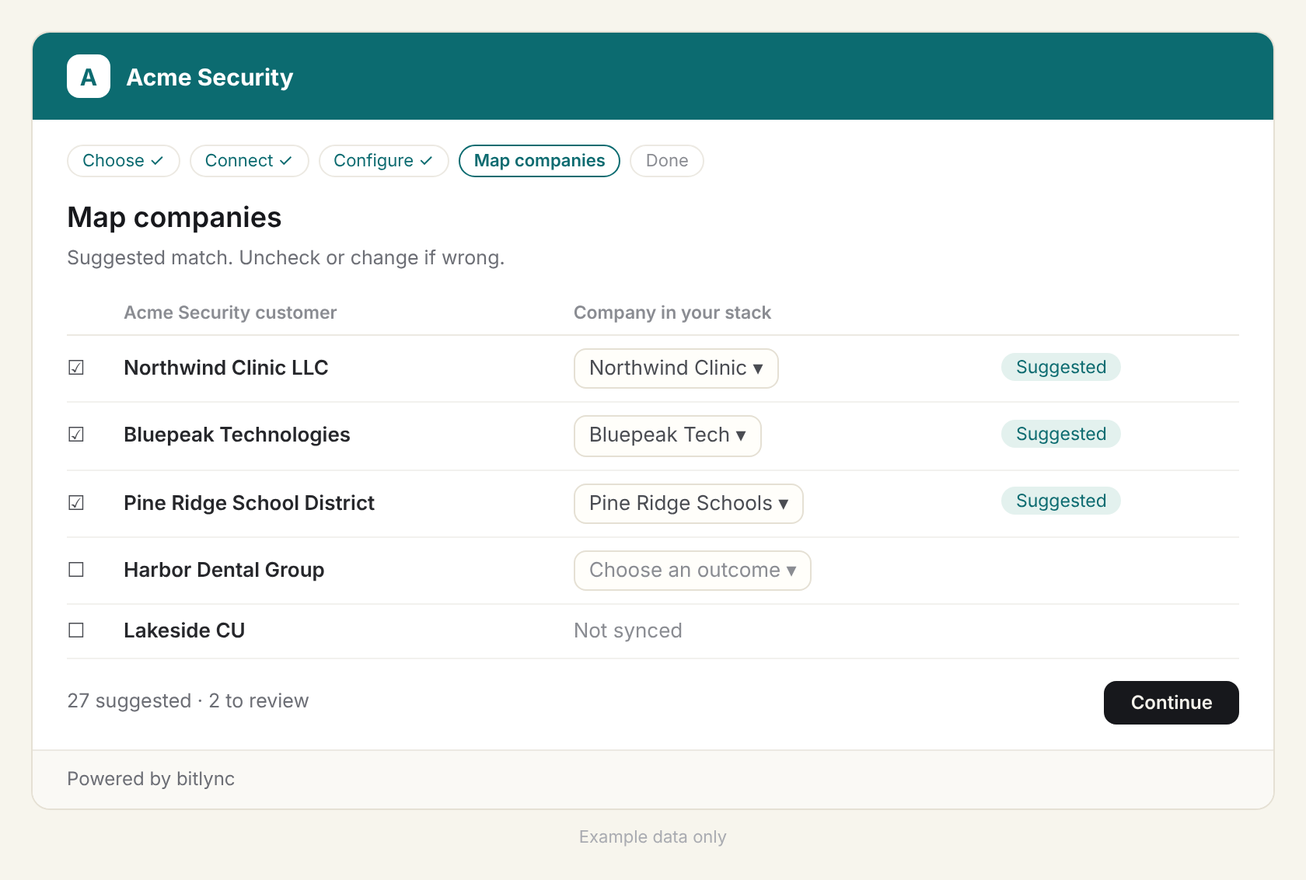
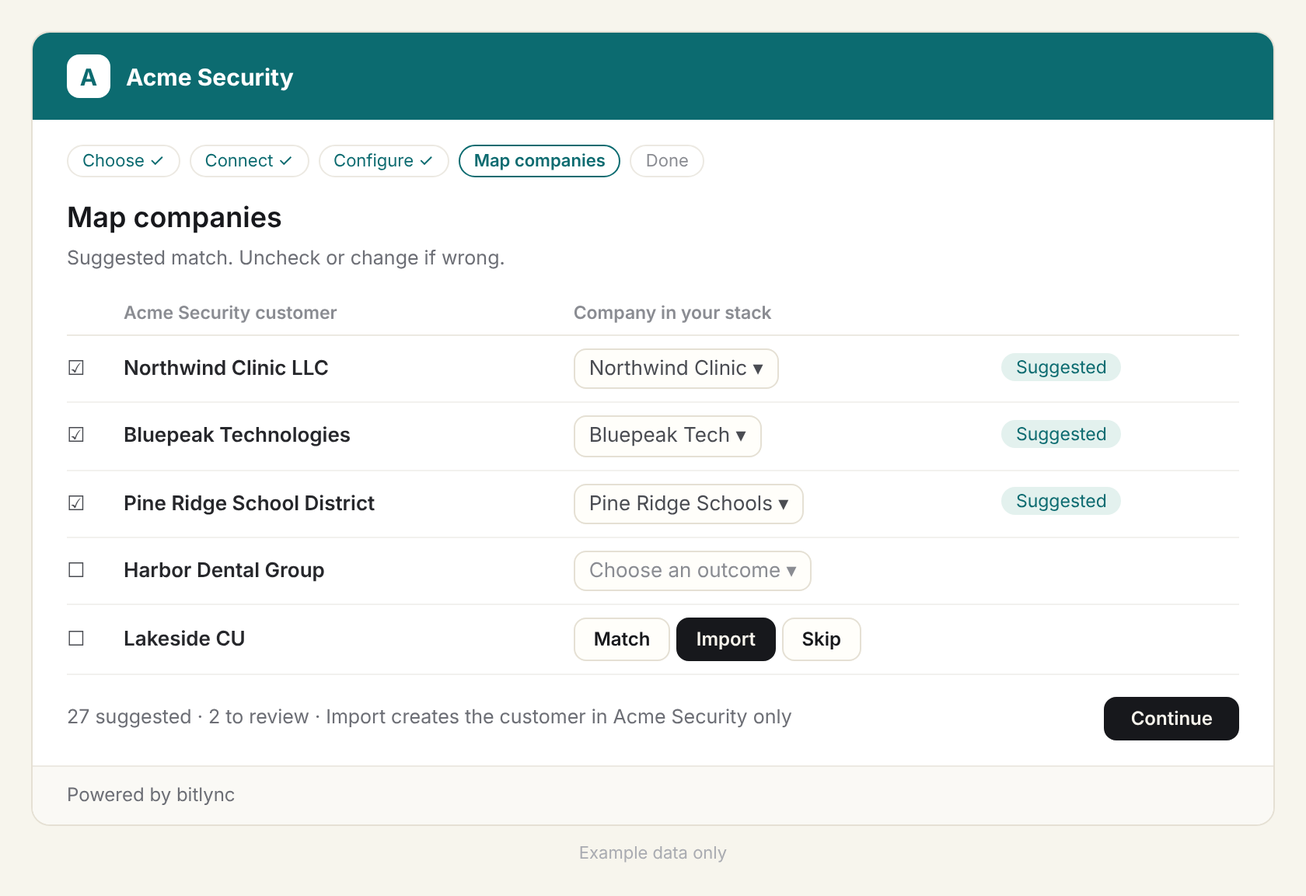
preview: Product as top-level nav tab (#product, #products alias), copy and art feedback (#249)

diff --git a/preview/index.html b/preview/index.html
@@ -824,117 +824,117 @@ body.docs footer{border-top-color:var(--dline);color:var(--dmute)}
 
 /* Products page (ISV audience, preview). Mirrors the MSP page styles. */
 /* MSP value page (preview). Scoped so other routes keep their styles. */
-#page-products .msp-hero{padding-bottom:48px}
-#page-products .msp-hero h1{font-family:var(--serif);font-weight:400;font-size:clamp(34px,5.4vw,60px);line-height:1.02;letter-spacing:-.02em;margin:0 0 14px}
-#page-products .msp-collage{width:min(1520px, calc(100vw - 28px));margin:6px auto 0}
-#page-products .msp-collage .ui{height:100%;display:flex;flex-direction:column;font-size:15px}
-#page-products .msp-collage .ui .uh{font-size:12.5px;padding:13px 18px}
-#page-products .msp-collage .ui .ub{flex:1;padding:16px 18px 18px}
-#page-products .msp-collage .rrow{padding:13px 0;font-size:15px}
-#page-products .msp-collage .chip{font-size:14px;padding:6px 12px}
-#page-products .msp-collage table.bt{font-size:14.5px}
-#page-products .msp-collage table.bt th{padding:8px 8px}
-#page-products .msp-collage table.bt td{padding:11px 8px}
-#page-products .dig-row{display:grid;grid-template-columns:118px 1fr;gap:10px;align-items:baseline;padding:9px 0;border-bottom:1px solid var(--hair);font-size:14.5px;line-height:1.35}
-#page-products .dig-row:last-of-type{border-bottom:none}
-#page-products .dig-k{font-family:var(--mono);font-size:11px;letter-spacing:.04em;text-transform:uppercase;color:var(--mute)}
-#page-products .dig-note{font-size:12px;color:var(--mute);margin:12px 0 0}
-#page-products .vsplit{display:grid;gap:36px;align-items:center;grid-template-columns:1fr 1.15fr}
-#page-products .vsplit.rev .scopy{order:2}
-#page-products .band{border-top:1px solid var(--hair)}
-#page-products .vtag{display:inline-block;font-family:var(--mono);font-size:11px;color:var(--mute);border:1px solid var(--hair);border-radius:999px;padding:2px 9px;margin:0 6px 10px 0}
-#page-products .ui{background:var(--card);border:1px solid var(--hair);border-radius:14px;box-shadow:0 18px 40px -28px rgba(23,24,28,.35);overflow:hidden;font-size:13.5px;text-align:left}
-#page-products .ui .uh{font-family:var(--mono);font-size:11.5px;color:var(--mute);padding:10px 16px;border-bottom:1px solid var(--hair);display:flex;justify-content:space-between;gap:8px}
-#page-products .ui .ub{padding:14px 16px;overflow-x:auto}
-#page-products .ui img{display:block;width:100%;height:auto}
-#page-products .rrow{display:grid;grid-template-columns:1fr 90px 150px;gap:10px;align-items:center;padding:10px 0;border-bottom:1px solid var(--hair)}
-#page-products .rrow:last-child{border-bottom:none}
-#page-products .sev{font-size:12.5px;color:var(--mute)}
-#page-products .sev i{display:inline-block;width:7px;height:7px;border-radius:50%;margin-right:6px;background:#B24A4A}
-#page-products .sev.m i{background:#A9702C}
-#page-products .sev.l i{background:#8B8E84}
-#page-products .chip{display:inline-block;border:1px solid var(--hair);background:#fff;border-radius:6px;padding:4px 10px;font-size:12.5px}
-#page-products .chip.on{border-color:var(--ink);background:var(--ink);color:var(--paper)}
-#page-products .picker{margin-top:12px;border:1px solid var(--hair);border-radius:10px;padding:12px 14px;background:#fff}
-#page-products .picker .f{display:grid;grid-template-columns:80px 1fr;gap:8px;align-items:center;margin:6px 0;font-size:12.5px;color:var(--mute)}
-#page-products .picker .sel{border:1px solid var(--hair);border-radius:6px;padding:5px 9px;color:var(--ink);background:var(--card)}
-#page-products .saved{color:var(--ok);font-size:12.5px;margin-top:8px}
-#page-products table.bt{width:100%;border-collapse:collapse;font-size:12.5px;min-width:280px}
-#page-products table.bt th{font-family:var(--mono);font-size:10.5px;color:var(--mute);text-align:left;font-weight:500;padding:6px 6px;border-bottom:1px solid var(--hair);text-transform:uppercase}
-#page-products table.bt td{padding:8px 6px;border-bottom:1px solid var(--hair);vertical-align:top}
-#page-products .mini{font-family:var(--mono);font-size:10px;background:#EFEADF;border-radius:4px;padding:1px 6px;margin-left:6px;color:var(--mute)}
-#page-products .small h3{font-size:20px}
-#page-products .small .ui{margin-top:14px;font-size:12px}
-#page-products .cta-band{background:var(--ink);color:var(--paper);border-radius:22px;padding:48px 28px 44px;text-align:center}
-#page-products .cta-band h2{color:var(--paper);margin:0}
-#page-products .cta-band .sub{color:#B9B8B0;margin:12px auto 22px;max-width:36rem}
-#page-products .cta-band .btn{background:var(--acid);color:var(--ink);border-color:var(--acid)}
-#page-products .cta-band .btn:hover{color:var(--ink);background:#B8E045;border-color:#B8E045}
-#page-products .pby{display:inline-flex;gap:8px;align-items:center;border:1px solid var(--ink);border-radius:999px;padding:6px 14px;font-size:13px;margin-top:6px}
-#page-products .cn{background:#1F2A44;color:#fff;text-align:center;padding:16px 10px;font-size:13px}
-#page-products .cn b{display:block;font-family:var(--mono);letter-spacing:.12em;font-size:12px;margin-bottom:4px;color:#BFD0F5}
-#page-products .steps{display:flex;gap:6px;justify-content:center;padding:10px;font-size:10.5px;color:var(--mute);flex-wrap:wrap}
-#page-products .steps span{border:1px solid var(--hair);border-radius:999px;padding:2px 8px}
-#page-products .pf{font-size:11px;color:var(--mute);text-align:center;padding:8px;border-top:1px solid var(--hair)}
-#page-products .msp-collage .grid{text-align:left;gap:16px}
-#page-products .msp-hero-stage{width:100%}
-#page-products .msp-tile{height:100%}
-#page-products .msp-cue{
+#page-product .msp-hero{padding-bottom:48px}
+#page-product .msp-hero h1{font-family:var(--serif);font-weight:400;font-size:clamp(34px,5.4vw,60px);line-height:1.02;letter-spacing:-.02em;margin:0 0 14px}
+#page-product .msp-collage{width:min(1520px, calc(100vw - 28px));margin:6px auto 0}
+#page-product .msp-collage .ui{height:100%;display:flex;flex-direction:column;font-size:15px}
+#page-product .msp-collage .ui .uh{font-size:12.5px;padding:13px 18px}
+#page-product .msp-collage .ui .ub{flex:1;padding:16px 18px 18px}
+#page-product .msp-collage .rrow{padding:13px 0;font-size:15px}
+#page-product .msp-collage .chip{font-size:14px;padding:6px 12px}
+#page-product .msp-collage table.bt{font-size:14.5px}
+#page-product .msp-collage table.bt th{padding:8px 8px}
+#page-product .msp-collage table.bt td{padding:11px 8px}
+#page-product .dig-row{display:grid;grid-template-columns:118px 1fr;gap:10px;align-items:baseline;padding:9px 0;border-bottom:1px solid var(--hair);font-size:14.5px;line-height:1.35}
+#page-product .dig-row:last-of-type{border-bottom:none}
+#page-product .dig-k{font-family:var(--mono);font-size:11px;letter-spacing:.04em;text-transform:uppercase;color:var(--mute)}
+#page-product .dig-note{font-size:12px;color:var(--mute);margin:12px 0 0}
+#page-product .vsplit{display:grid;gap:36px;align-items:center;grid-template-columns:1fr 1.15fr}
+#page-product .vsplit.rev .scopy{order:2}
+#page-product .band{border-top:1px solid var(--hair)}
+#page-product .vtag{display:inline-block;font-family:var(--mono);font-size:11px;color:var(--mute);border:1px solid var(--hair);border-radius:999px;padding:2px 9px;margin:0 6px 10px 0}
+#page-product .ui{background:var(--card);border:1px solid var(--hair);border-radius:14px;box-shadow:0 18px 40px -28px rgba(23,24,28,.35);overflow:hidden;font-size:13.5px;text-align:left}
+#page-product .ui .uh{font-family:var(--mono);font-size:11.5px;color:var(--mute);padding:10px 16px;border-bottom:1px solid var(--hair);display:flex;justify-content:space-between;gap:8px}
+#page-product .ui .ub{padding:14px 16px;overflow-x:auto}
+#page-product .ui img{display:block;width:100%;height:auto}
+#page-product .rrow{display:grid;grid-template-columns:1fr 90px 150px;gap:10px;align-items:center;padding:10px 0;border-bottom:1px solid var(--hair)}
+#page-product .rrow:last-child{border-bottom:none}
+#page-product .sev{font-size:12.5px;color:var(--mute)}
+#page-product .sev i{display:inline-block;width:7px;height:7px;border-radius:50%;margin-right:6px;background:#B24A4A}
+#page-product .sev.m i{background:#A9702C}
+#page-product .sev.l i{background:#8B8E84}
+#page-product .chip{display:inline-block;border:1px solid var(--hair);background:#fff;border-radius:6px;padding:4px 10px;font-size:12.5px}
+#page-product .chip.on{border-color:var(--ink);background:var(--ink);color:var(--paper)}
+#page-product .picker{margin-top:12px;border:1px solid var(--hair);border-radius:10px;padding:12px 14px;background:#fff}
+#page-product .picker .f{display:grid;grid-template-columns:80px 1fr;gap:8px;align-items:center;margin:6px 0;font-size:12.5px;color:var(--mute)}
+#page-product .picker .sel{border:1px solid var(--hair);border-radius:6px;padding:5px 9px;color:var(--ink);background:var(--card)}
+#page-product .saved{color:var(--ok);font-size:12.5px;margin-top:8px}
+#page-product table.bt{width:100%;border-collapse:collapse;font-size:12.5px;min-width:280px}
+#page-product table.bt th{font-family:var(--mono);font-size:10.5px;color:var(--mute);text-align:left;font-weight:500;padding:6px 6px;border-bottom:1px solid var(--hair);text-transform:uppercase}
+#page-product table.bt td{padding:8px 6px;border-bottom:1px solid var(--hair);vertical-align:top}
+#page-product .mini{font-family:var(--mono);font-size:10px;background:#EFEADF;border-radius:4px;padding:1px 6px;margin-left:6px;color:var(--mute)}
+#page-product .small h3{font-size:20px}
+#page-product .small .ui{margin-top:14px;font-size:12px}
+#page-product .cta-band{background:var(--ink);color:var(--paper);border-radius:22px;padding:48px 28px 44px;text-align:center}
+#page-product .cta-band h2{color:var(--paper);margin:0}
+#page-product .cta-band .sub{color:#B9B8B0;margin:12px auto 22px;max-width:36rem}
+#page-product .cta-band .btn{background:var(--acid);color:var(--ink);border-color:var(--acid)}
+#page-product .cta-band .btn:hover{color:var(--ink);background:#B8E045;border-color:#B8E045}
+#page-product .pby{display:inline-flex;gap:8px;align-items:center;border:1px solid var(--ink);border-radius:999px;padding:6px 14px;font-size:13px;margin-top:6px}
+#page-product .cn{background:#1F2A44;color:#fff;text-align:center;padding:16px 10px;font-size:13px}
+#page-product .cn b{display:block;font-family:var(--mono);letter-spacing:.12em;font-size:12px;margin-bottom:4px;color:#BFD0F5}
+#page-product .steps{display:flex;gap:6px;justify-content:center;padding:10px;font-size:10.5px;color:var(--mute);flex-wrap:wrap}
+#page-product .steps span{border:1px solid var(--hair);border-radius:999px;padding:2px 8px}
+#page-product .pf{font-size:11px;color:var(--mute);text-align:center;padding:8px;border-top:1px solid var(--hair)}
+#page-product .msp-collage .grid{text-align:left;gap:16px}
+#page-product .msp-hero-stage{width:100%}
+#page-product .msp-tile{height:100%}
+#page-product .msp-cue{
   display:flex;align-items:center;justify-content:center;
   width:42px;height:42px;margin:22px auto 0;color:var(--mute);
   border:1px solid var(--hair);border-radius:999px;background:rgba(247,244,236,.8)
 }
-#page-products .msp-cue:hover{color:var(--ink);border-color:#B7B2A6}
-#page-products .msp-cue:focus-visible{outline:2px solid var(--ink);outline-offset:3px}
-#page-products #v1 .wrap{max-width:1560px}
+#page-product .msp-cue:hover{color:var(--ink);border-color:#B7B2A6}
+#page-product .msp-cue:focus-visible{outline:2px solid var(--ink);outline-offset:3px}
+#page-product #v1 .wrap{max-width:1560px}
 @media(min-width:861px){
-  #page-products #v1 .vsplit{grid-template-columns:minmax(0,1.7fr) minmax(300px,.78fr);gap:32px 44px}
+  #page-product #v1 .vsplit{grid-template-columns:minmax(0,1.7fr) minmax(300px,.78fr);gap:32px 44px}
 }
-#page-products section[id]{scroll-margin-top:76px}
+#page-product section[id]{scroll-margin-top:76px}
 @media(max-width:720px){
-  #page-products .dig-row{grid-template-columns:1fr;gap:2px;padding:10px 0}
-  #page-products .msp-collage{width:min(1520px, calc(100vw - 20px))}
+  #page-product .dig-row{grid-template-columns:1fr;gap:2px;padding:10px 0}
+  #page-product .msp-collage{width:min(1520px, calc(100vw - 20px))}
 }
 @media(min-width:900px){
-  #page-products .msp-hero{
+  #page-product .msp-hero{
     box-sizing:border-box;
     min-height:calc(100vh - 64px);
     min-height:calc(100svh - 64px);
     display:flex;flex-direction:column;justify-content:center;
     position:relative;padding:20px 0 76px
   }
-  #page-products .msp-cue{
+  #page-product .msp-cue{
     position:absolute;left:50%;bottom:18px;margin:0;
     transform:translateX(-50%)
   }
 }
-#page-products .qty{display:inline-grid;font-variant-numeric:tabular-nums}
-#page-products .qty-hold,#page-products .qty-n{grid-area:1 / 1}
-#page-products .qty-hold{visibility:hidden}
-#page-products .msp-route{display:inline-block;min-width:72px;text-align:center;transition:opacity 200ms ease}
-#page-products .card.small,#page-products .msp-tile .ui,#page-products .vsplit .ui{transition:transform 240ms ease,box-shadow 240ms ease,border-color 240ms ease}
+#page-product .qty{display:inline-grid;font-variant-numeric:tabular-nums}
+#page-product .qty-hold,#page-product .qty-n{grid-area:1 / 1}
+#page-product .qty-hold{visibility:hidden}
+#page-product .msp-route{display:inline-block;min-width:72px;text-align:center;transition:opacity 200ms ease}
+#page-product .card.small,#page-product .msp-tile .ui,#page-product .vsplit .ui{transition:transform 240ms ease,box-shadow 240ms ease,border-color 240ms ease}
 @media (prefers-reduced-motion: no-preference){
-  #page-products.msp-arm .msp-rise:not(.in){opacity:0;transform:translateY(16px)}
-  #page-products.msp-arm .msp-fade:not(.in){opacity:0}
-  #page-products.msp-arm .msp-tile.msp-rise:not(.in){opacity:0;transform:translateY(24px)}
-  #page-products.msp-arm .msp-shot:not(.in){opacity:0;transform:translateY(36px)}
-  #page-products.msp-arm .msp-rise.in,#page-products.msp-arm .msp-fade.in{opacity:1;transform:none;transition:opacity 420ms ease,transform 420ms ease}
-  #page-products.msp-arm .msp-fade.in{transition:opacity 420ms ease}
-  #page-products.msp-arm .msp-shot.in{opacity:1;transform:none;transition:opacity 740ms ease,transform 740ms cubic-bezier(.16,.84,.32,1)}
-  #page-products.msp-arm .lag.in{transition-delay:160ms}
-  #page-products.msp-arm .msp-shot.lag.in{transition-delay:200ms}
-  #page-products.msp-arm .msp-tile.in{
+  #page-product.msp-arm .msp-rise:not(.in){opacity:0;transform:translateY(16px)}
+  #page-product.msp-arm .msp-fade:not(.in){opacity:0}
+  #page-product.msp-arm .msp-tile.msp-rise:not(.in){opacity:0;transform:translateY(24px)}
+  #page-product.msp-arm .msp-shot:not(.in){opacity:0;transform:translateY(36px)}
+  #page-product.msp-arm .msp-rise.in,#page-product.msp-arm .msp-fade.in{opacity:1;transform:none;transition:opacity 420ms ease,transform 420ms ease}
+  #page-product.msp-arm .msp-fade.in{transition:opacity 420ms ease}
+  #page-product.msp-arm .msp-shot.in{opacity:1;transform:none;transition:opacity 740ms ease,transform 740ms cubic-bezier(.16,.84,.32,1)}
+  #page-product.msp-arm .lag.in{transition-delay:160ms}
+  #page-product.msp-arm .msp-shot.lag.in{transition-delay:200ms}
+  #page-product.msp-arm .msp-tile.in{
     opacity:1;transform:none;
     animation:mspFloat 12s ease-in-out infinite;
     animation-delay:720ms
   }
-  #page-products.msp-arm .msp-collage .msp-tile:nth-child(1).in{transition-delay:70ms;animation-delay:680ms;animation-duration:11s}
-  #page-products.msp-arm .msp-collage .msp-tile:nth-child(2).in{transition-delay:190ms;animation-delay:860ms;animation-duration:13.5s}
-  #page-products.msp-arm .msp-collage .msp-tile:nth-child(3).in{transition-delay:310ms;animation-delay:1020ms;animation-duration:10s}
-  #page-products.msp-arm .msp-saved{opacity:0}
-  #page-products.msp-arm .msp-saved.show{opacity:1;transition:opacity 320ms ease}
-  #page-products .card.small:hover,#page-products .msp-tile .ui:hover,#page-products .vsplit .ui:hover{transform:translateY(-5px);box-shadow:0 18px 36px -18px rgba(23,24,28,.48)}
-  #page-products .msp-cue{animation:mspCueFlow 1.9s ease-in-out infinite}
+  #page-product.msp-arm .msp-collage .msp-tile:nth-child(1).in{transition-delay:70ms;animation-delay:680ms;animation-duration:11s}
+  #page-product.msp-arm .msp-collage .msp-tile:nth-child(2).in{transition-delay:190ms;animation-delay:860ms;animation-duration:13.5s}
+  #page-product.msp-arm .msp-collage .msp-tile:nth-child(3).in{transition-delay:310ms;animation-delay:1020ms;animation-duration:10s}
+  #page-product.msp-arm .msp-saved{opacity:0}
+  #page-product.msp-arm .msp-saved.show{opacity:1;transition:opacity 320ms ease}
+  #page-product .card.small:hover,#page-product .msp-tile .ui:hover,#page-product .vsplit .ui:hover{transform:translateY(-5px);box-shadow:0 18px 36px -18px rgba(23,24,28,.48)}
+  #page-product .msp-cue{animation:mspCueFlow 1.9s ease-in-out infinite}
   @keyframes mspFloat{
     0%,100%{transform:translate3d(0,var(--py,0px),0)}
     50%{transform:translate3d(0,calc(var(--py,0px) - 7px),0)}
@@ -949,29 +949,29 @@ body.docs footer{border-top-color:var(--dline);color:var(--dmute)}
   }
 }
 @media(min-width:900px) and (prefers-reduced-motion:no-preference){
-  #page-products .msp-cue{animation-name:mspCueDock}
+  #page-product .msp-cue{animation-name:mspCueDock}
 }
 @media(prefers-reduced-motion:reduce){
-  #page-products .msp-cue,#page-products .msp-tile,#page-products .card.small,#page-products .vsplit .ui{animation:none;transition:none}
+  #page-product .msp-cue,#page-product .msp-tile,#page-product .card.small,#page-product .vsplit .ui{animation:none;transition:none}
 }
 @media(max-width:860px){
-  #page-products .vsplit{grid-template-columns:1fr}
-  #page-products .vsplit.rev .scopy{order:0}
-  #page-products .rrow{grid-template-columns:1fr}
-  #page-products .rrow .sev{justify-self:start}}
+  #page-product .vsplit{grid-template-columns:1fr}
+  #page-product .vsplit.rev .scopy{order:0}
+  #page-product .rrow{grid-template-columns:1fr}
+  #page-product .rrow .sev{justify-self:start}}
 
-#page-products .msp-tile .tilt{transform:rotate(var(--rot,0deg));transform-origin:50% 60%;height:100%}
-#page-products .msp-collage .msp-tile:nth-child(1){--rot:-2.2deg}
-#page-products .msp-collage .msp-tile:nth-child(2){--rot:.8deg}
-#page-products .msp-collage .msp-tile:nth-child(3){--rot:2.4deg}
-#page-products .msp-collage{margin-top:30px}
-#page-products .mstrip{display:flex;justify-content:space-between;align-items:center;gap:20px;flex-wrap:wrap;background:var(--card);border:1px solid var(--hair);border-radius:18px;padding:26px 28px}
-#page-products .mstrip h3{font-size:26px;margin:0;max-width:36rem}
-#page-products .mlist{margin:0 0 4px;padding:0 0 0 1.1em;color:var(--mute);font-size:15px}#page-products .mlist li{margin:4px 0}
-#page-products .wide .ui{max-width:1100px;margin:0 auto}
-#page-products .draftbar{background:#17181C;color:#C6F04D;font-family:'JetBrains Mono',monospace;font-size:11.5px;text-align:center;padding:6px 10px}
-@media(max-width:820px){#page-products .msp-collage .msp-tile{--rot:0deg!important;margin-top:0!important}}
-@media(prefers-reduced-motion:reduce){#page-products .msp-tile .tilt{transition:none}}
+#page-product .msp-tile .tilt{transform:rotate(var(--rot,0deg));transform-origin:50% 60%;height:100%}
+#page-product .msp-collage .msp-tile:nth-child(1){--rot:-2.2deg}
+#page-product .msp-collage .msp-tile:nth-child(2){--rot:.8deg}
+#page-product .msp-collage .msp-tile:nth-child(3){--rot:2.4deg}
+#page-product .msp-collage{margin-top:30px}
+#page-product .mstrip{display:flex;justify-content:space-between;align-items:center;gap:20px;flex-wrap:wrap;background:var(--card);border:1px solid var(--hair);border-radius:18px;padding:26px 28px}
+#page-product .mstrip h3{font-size:26px;margin:0;max-width:36rem}
+#page-product .mlist{margin:0 0 4px;padding:0 0 0 1.1em;color:var(--mute);font-size:15px}#page-product .mlist li{margin:4px 0}
+#page-product .wide .ui{max-width:1100px;margin:0 auto}
+#page-product .draftbar{background:#17181C;color:#C6F04D;font-family:'JetBrains Mono',monospace;font-size:11.5px;text-align:center;padding:6px 10px}
+@media(max-width:820px){#page-product .msp-collage .msp-tile{--rot:0deg!important;margin-top:0!important}}
+@media(prefers-reduced-motion:reduce){#page-product .msp-tile .tilt{transition:none}}
 
 </style>
 </head>
@@ -993,11 +993,11 @@ body.docs footer{border-top-color:var(--dline);color:var(--dmute)}
               <a href="#solutions/tech-and-platform-support" data-nav="solutions">Tech and platform support</a>
               <a href="#solutions/go-to-market" data-nav="solutions">Go to market</a>
               <a href="#msps" data-nav="msps">MSPs</a>
-              <a href="#products" data-nav="products">Products</a>
             </div>
           </div>
         </div>
       </div>
+      <a href="#product" data-nav="product">Product</a>
       <a href="#use-cases" data-nav="use-cases">Use cases</a>
       <a href="#integrations" data-nav="integrations">Connectors</a>
       <a href="#about" data-nav="about">About</a>
@@ -1919,24 +1919,24 @@ body.docs footer{border-top-color:var(--dline);color:var(--dmute)}
   </section>
 </div>
 
-<div class="page" id="page-products">
+<div class="page" id="page-product">
 <section class="pad msp-hero"><div class="msp-hero-stage"><div class="wrap center"><div class="msp-rise">
 <h1>Your integration, your way.</h1><p class="sub">Bitlync runs the connection, alerts, billing and health checks around your product, under your brand.</p>
 <div class="btn-row" style="justify-content:center"><a class="btn" href="#partners">Talk to us</a></div></div></div>
-<div class="msp-collage"><div class="grid g3"><div class="msp-tile msp-rise"><div class="tilt"><div class="ui"><div class="uh"><span>Connect your stack</span><span>Acme Security</span></div><div class="ub"><div class="dig-row"><span class="dig-k">Site</span><span>Stack address ✓</span></div><div class="dig-row"><span class="dig-k">Company ID</span><span>summitpeak ✓</span></div><div class="dig-row"><span class="dig-k">Keys</span><span>Public and private ✓</span></div><div class="dig-note">Example data</div></div></div></div></div><div class="msp-tile msp-rise"><div class="tilt"><div class="ui"><div class="uh"><span>Alert types</span><span>Acme Security</span></div><div class="ub"><div class="rrow" style="grid-template-columns:1fr auto"><span>Malware detected</span><span class="sev"><i></i>Critical</span></div><div class="rrow" style="grid-template-columns:1fr auto"><span>Renewal notice</span><span class="sev l"><i></i>Low</span></div><div class="rrow" style="grid-template-columns:1fr auto"><span>Connection problem</span><span class="sev m"><i></i>High</span></div></div></div></div></div><div class="msp-tile msp-rise"><div class="tilt"><div class="ui"><div class="uh"><span>Activity · Billing</span><span>Acme Security</span></div><div class="ub"><table class="bt"><tr><th>Customer</th><th>Current</th><th>Next update</th></tr><tr><td>Northwind Clinic</td><td>48</td><td>Oct 20</td></tr><tr><td>Cedar Health</td><td>60</td><td>Oct 20</td></tr></table><div class="dig-note">Example data</div></div></div></div></div></div></div></div>
+<div class="msp-collage"><div class="grid g3"><div class="msp-tile msp-rise"><div class="tilt"><div class="ui"><div class="uh"><span>Connect your stack</span><span>Acme Security</span></div><div class="ub"><div class="dig-row"><span class="dig-k">Site</span><span>Stack address ✓</span></div><div class="dig-row"><span class="dig-k">Company ID</span><span>summitpeak ✓</span></div><div class="dig-row"><span class="dig-k">Keys</span><span>Public and private ✓</span></div><div class="dig-note">Example data</div></div></div></div></div><div class="msp-tile msp-rise"><div class="tilt"><div class="ui"><div class="uh"><span>Alert types</span><span>Acme Security</span></div><div class="ub"><div class="rrow" style="grid-template-columns:1fr auto"><span>Malware detected</span><span class="sev"><i></i>Critical</span></div><div class="rrow" style="grid-template-columns:1fr auto"><span>Renewal notice</span><span class="sev l"><i></i>Low</span></div><div class="rrow" style="grid-template-columns:1fr auto"><span>Connection problem</span><span class="sev m"><i></i>High</span></div></div></div></div></div><div class="msp-tile msp-rise"><div class="tilt"><div class="ui"><div class="uh"><span>Activity · Billing</span><span>Acme Security</span></div><div class="ub"><table class="bt"><tr><th>Customer</th><th>Current</th><th>Next update</th></tr><tr><td>Northwind Clinic</td><td>48 users</td><td>Oct 20</td></tr><tr><td>Cedar Health</td><td>60 users</td><td>Oct 20</td></tr></table><div class="dig-note">Example data</div></div></div></div></div></div></div></div>
 <a class="msp-cue" href="#s1" aria-label="Scroll down"><svg width="22" height="22" viewBox="0 0 22 22" aria-hidden="true" focusable="false"><path d="M5.5 8.5l5.5 5.5 5.5-5.5" fill="none" stroke="currentColor" stroke-width="1.5" stroke-linecap="round" stroke-linejoin="round"/></svg></a></section>
 <section class="pad band" id="s1"><div class="wrap"><div class="vsplit rev">
-<div class="scopy msp-rise"><span class="vtag">Connect</span><h2>One Connect flow.</h2><p class="sub">Your MSPs connect their stack in a few steps, with a Where do I find this? link on each field. You don't build or maintain those integrations yourself.</p></div>
+<div class="scopy msp-rise"><span class="vtag">Connect</span><h2>One Connect flow.</h2><p class="sub">Your MSPs connect their stack in a few steps, with instructions showing exactly where to find each value. You don't build or maintain setup docs for those integrations.</p></div>
 <div class="msp-rise lag msp-shot"><div class="ui"><img src="assets/prod_connect_keys.png" srcset="assets/prod_connect_keys.png 1x, assets/prod_connect_keys@2x.png 2x" alt="Connect step: stack keys"></div></div></div></div></section><section class="pad band" id="s2"><div class="wrap"><div class="vsplit">
 <div class="scopy msp-rise"><span class="vtag">Branding</span><h2>Your brand throughout.</h2><p class="sub">The screens your MSPs see use your logo, colors and theme. Check the preview, then save and publish.</p></div>
 <div class="msp-rise lag msp-shot"><div class="ui"><img src="assets/prod_branding.png" srcset="assets/prod_branding.png 1x, assets/prod_branding@2x.png 2x" alt="Branding settings in the ISV console"></div></div></div></div></section><section class="pad band" id="s3"><div class="wrap"><div class="vsplit rev">
 <div class="scopy msp-rise"><span class="vtag">Configuration</span><h2>MSPs see what you'll use before they connect.</h2><p class="sub">Turn features on, mark what's required, and request permissions by category. Disabled features are hidden from MSPs at Connect.</p></div>
 <div class="msp-rise lag msp-shot"><div class="ui"><img src="assets/prod_configure.png" srcset="assets/prod_configure.png 1x, assets/prod_configure@2x.png 2x" alt="Features and access by category"></div></div></div></div></section><section class="pad band" id="s4"><div class="wrap"><div class="vsplit">
-<div class="scopy msp-rise"><span class="vtag">Alerts</span><h2>Alerts your MSPs act on.</h2><p class="sub">Define your own alert types with severities and defaults. Each MSP routes them to a ticket, email or digest in their stack.</p><ul class="mlist"><li>Product alerts: the alerts your product sends, like Ransomware blocked or Vulnerability found, go to the MSP as a ticket, email or digest in their stack.</li><li>Renewal notice, 30, 60 or 90 days before renewal.</li><li>Pricing and packaging changes.</li><li>Integration health: connection, sync and data problems.</li></ul></div>
+<div class="scopy msp-rise"><span class="vtag">Alerts</span><h2>Alerts your MSPs act on.</h2><p class="sub">Define your own alert types with severities and defaults. Each MSP routes them to a ticket, email or digest in their stack.</p><ul class="mlist"><li>Product alerts: the alerts your product sends.</li><li>Renewal notice, 30, 60 or 90 days before renewal.</li><li>Pricing and packaging changes.</li><li>Integration health: connection, sync and data problems.</li></ul></div>
 <div class="msp-rise lag msp-shot"><div class="ui"><img src="assets/prod_alert_types.png" srcset="assets/prod_alert_types.png 1x, assets/prod_alert_types@2x.png 2x" alt="Alert types in the ISV console"></div></div></div></div></section><section class="pad band" id="s5"><div class="wrap"><div class="vsplit rev">
-<div class="scopy msp-rise"><span class="vtag">Billing</span><h2>Billing quantities that stay current.</h2><p class="sub">Quantities update automatically in the MSP's PSA on the agreements they matched.</p></div>
+<div class="scopy msp-rise"><span class="vtag">Billing</span><h2>Billing quantities that stay current.</h2><p class="sub">Quantities update automatically in the MSP's PSA on the agreements they matched. Your MSPs use those quantities to keep customer agreements current, so they bill customers for what they actually use.</p></div>
 <div class="msp-rise lag msp-shot"><div class="ui"><img src="assets/prod_billing.png" srcset="assets/prod_billing.png 1x, assets/prod_billing@2x.png 2x" alt="Billing activity with current and peak counts"></div></div></div></div></section><section class="pad band" id="s6"><div class="wrap"><div class="vsplit">
-<div class="scopy msp-rise"><span class="vtag">Customer matching</span><h2>Customers matched for you.</h2><p class="sub">Bitlync suggests matches between your customers and the MSP's companies, so onboarding takes less of your team's time.</p></div>
+<div class="scopy msp-rise"><span class="vtag">Customer matching</span><h2>Customers matched for you.</h2><p class="sub">Bitlync suggests matches between your customers and the MSP's companies, so onboarding takes less of your team's time. MSPs can also import companies that aren't matched yet as new customers in your product.</p></div>
 <div class="msp-rise lag msp-shot"><div class="ui"><img src="assets/prod_map_companies.png" srcset="assets/prod_map_companies.png 1x, assets/prod_map_companies@2x.png 2x" alt="Map companies step with suggested matches"></div></div></div></div></section><section class="pad band" id="s7"><div class="wrap"><div class="vsplit rev">
 <div class="scopy msp-rise"><span class="vtag">Custom fields</span><h2>A field on each company record.</h2><p class="sub">Write a value like a contract link onto each company record in the MSP's stack. Bitlync creates the field once.</p></div>
 <div class="msp-rise lag msp-shot"><div class="ui"><img src="assets/prod_custom_fields.png" srcset="assets/prod_custom_fields.png 1x, assets/prod_custom_fields@2x.png 2x" alt="Custom fields in the ISV console"></div></div></div></div></section><section class="pad band" id="s8"><div class="wrap"><div class="vsplit">
@@ -2727,7 +2727,7 @@ dry_run ticket create is REST-only.</pre>
 </footer>
 <script>
 (function(){
-  var pages=['home','use-cases','integrations','solutions','solutions-product','solutions-developer','solutions-sales','solutions-customer-success','msps','products','partners','docs','changelog','about'];
+  var pages=['home','use-cases','integrations','solutions','solutions-product','solutions-developer','solutions-sales','solutions-customer-success','msps','product','partners','docs','changelog','about'];
   var docsIds=['docs','docs-concepts','docs-quickstart','docs-replace-existing','docs-coverage','docs-reference','docs-what-we-write','docs-use-cases'];
   var conceptAlias={'docs-concepts-caching':'docs-concepts-store-served-reads','docs-concepts-escape-hatch':'docs-concepts-store-served-reads','docs-concepts-retries':'docs-concepts-delivery','docs-concepts-honest-delivery':'docs-concepts-delivery','docs-concepts-dedup':'docs-concepts-delivery','docs-concepts-validation':'docs-concepts-writes','docs-concepts-customer-map':'docs-concepts-credential-vault','docs-concepts-identity-hold':'docs-concepts-credential-vault','docs-concepts-health':'docs-concepts-errors','docs-concepts-sandbox':'docs-concepts','docs-concepts-routing':'docs-concepts','docs-concepts-permissions':'docs-concepts-msp-permissions'};
   var objHash={
@@ -2757,7 +2757,7 @@ dry_run ticket create is REST-only.</pre>
       return {page:'home',docs:'docs',anchor:null,connector:null};
     }
     if(h==='pricing'||h==='contact') return {page:'partners',docs:'docs',anchor:null,connector:null};
-    if(h==='product') return {page:'solutions-product',docs:'docs',anchor:null,connector:null};
+    if(h==='product'||h==='products') return {page:'product',docs:'docs',anchor:null,connector:null};
     if(h==='solutions') return {page:'solutions',docs:'docs',anchor:null,connector:null};
     if(h.indexOf('solutions/')===0){
       var slug=h.slice(10);
@@ -2813,7 +2813,7 @@ dry_run ticket create is REST-only.</pre>
   var prodMotionArmed=false;
   function armProductsMotion(){
     if(prodMotionArmed) return;
-    var page=document.getElementById('page-products');
+    var page=document.getElementById('page-product');
     if(!page) return;
     if(window.matchMedia('(prefers-reduced-motion: reduce)').matches) return;
     if(!('IntersectionObserver' in window)) return;
@@ -2932,7 +2932,6 @@ dry_run ticket create is REST-only.</pre>
     }, 160);
   }
   function show(hash){
-    if((hash||'').replace('#','')==='product'){ history.replaceState(null,'','#solutions/product'); hash='#solutions/product'; }
     var st=parse(hash);
     if(st.personaSlug && st.personaCanon && st.personaSlug!==st.personaCanon){
       history.replaceState(null,'','#solutions/'+st.personaCanon);
@@ -2943,11 +2942,11 @@ dry_run ticket create is REST-only.</pre>
       if(el) el.classList.toggle('on',p===st.page);
     });
     if(st.page==='msps') armMspMotion();
-    if(st.page==='products') armProductsMotion();
+    if(st.page==='product') armProductsMotion();
     document.body.classList.toggle('docs', st.page==='docs' || st.page==='changelog');
     document.querySelectorAll('nav.main a').forEach(function(a){
       var n=a.getAttribute('data-nav');
-      a.classList.toggle('on', n===st.page || (n==='docs' && st.page==='docs') || (n==='solutions' && (st.page==='solutions' || st.page.indexOf('solutions-')===0 || st.page==='msps' || st.page==='products')));
+      a.classList.toggle('on', n===st.page || (n==='docs' && st.page==='docs') || (n==='solutions' && (st.page==='solutions' || st.page.indexOf('solutions-')===0 || st.page==='msps')));
     });
     docsIds.forEach(function(id){
       var el=document.getElementById('d-'+id);
@@ -2983,7 +2982,7 @@ dry_run ticket create is REST-only.</pre>
       'solutions-developer':['Engineering \u00b7 Bitlync','One call, same shape every time.'],
       'solutions-sales':['Go to market \u00b7 Bitlync','The first thing they ask is if you integrate.'],
       'solutions-customer-success':['Tech and platform support \u00b7 Bitlync','Name the missing permission in the flow.'],
-      products:['Products \u00b7 Bitlync','Bitlync runs the connection, alerts, billing and health checks around your product, under your brand.'],
+      product:['Product \u00b7 Bitlync','Bitlync runs the connection, alerts, billing and health checks around your product, under your brand.'],
       msps:['For MSPs \u00b7 Bitlync','Billing that stays current and vendor alerts routed your way, in a stack you control.'],
       partners:['Contact us \u00b7 Bitlync','Paid design partners: engineering access, roadmap input, founding pricing.'],
       docs:['Docs \u00b7 Bitlync','Hold a key. Call a seeded tenant. Then the MSP pastes their own keys.'],
@@ -3008,7 +3007,7 @@ dry_run ticket create is REST-only.</pre>
     var footNote=document.getElementById('footNote');
     if(footNote){
       if(!footNote.hasAttribute('data-default')) footNote.setAttribute('data-default', footNote.textContent);
-      footNote.textContent = (st.page==='msps'||st.page==='products')
+      footNote.textContent = (st.page==='msps'||st.page==='product')
         ? '\u00a9 2026 Bitlync \u00b7 Powered by bitlync'
         : footNote.getAttribute('data-default');
     }
